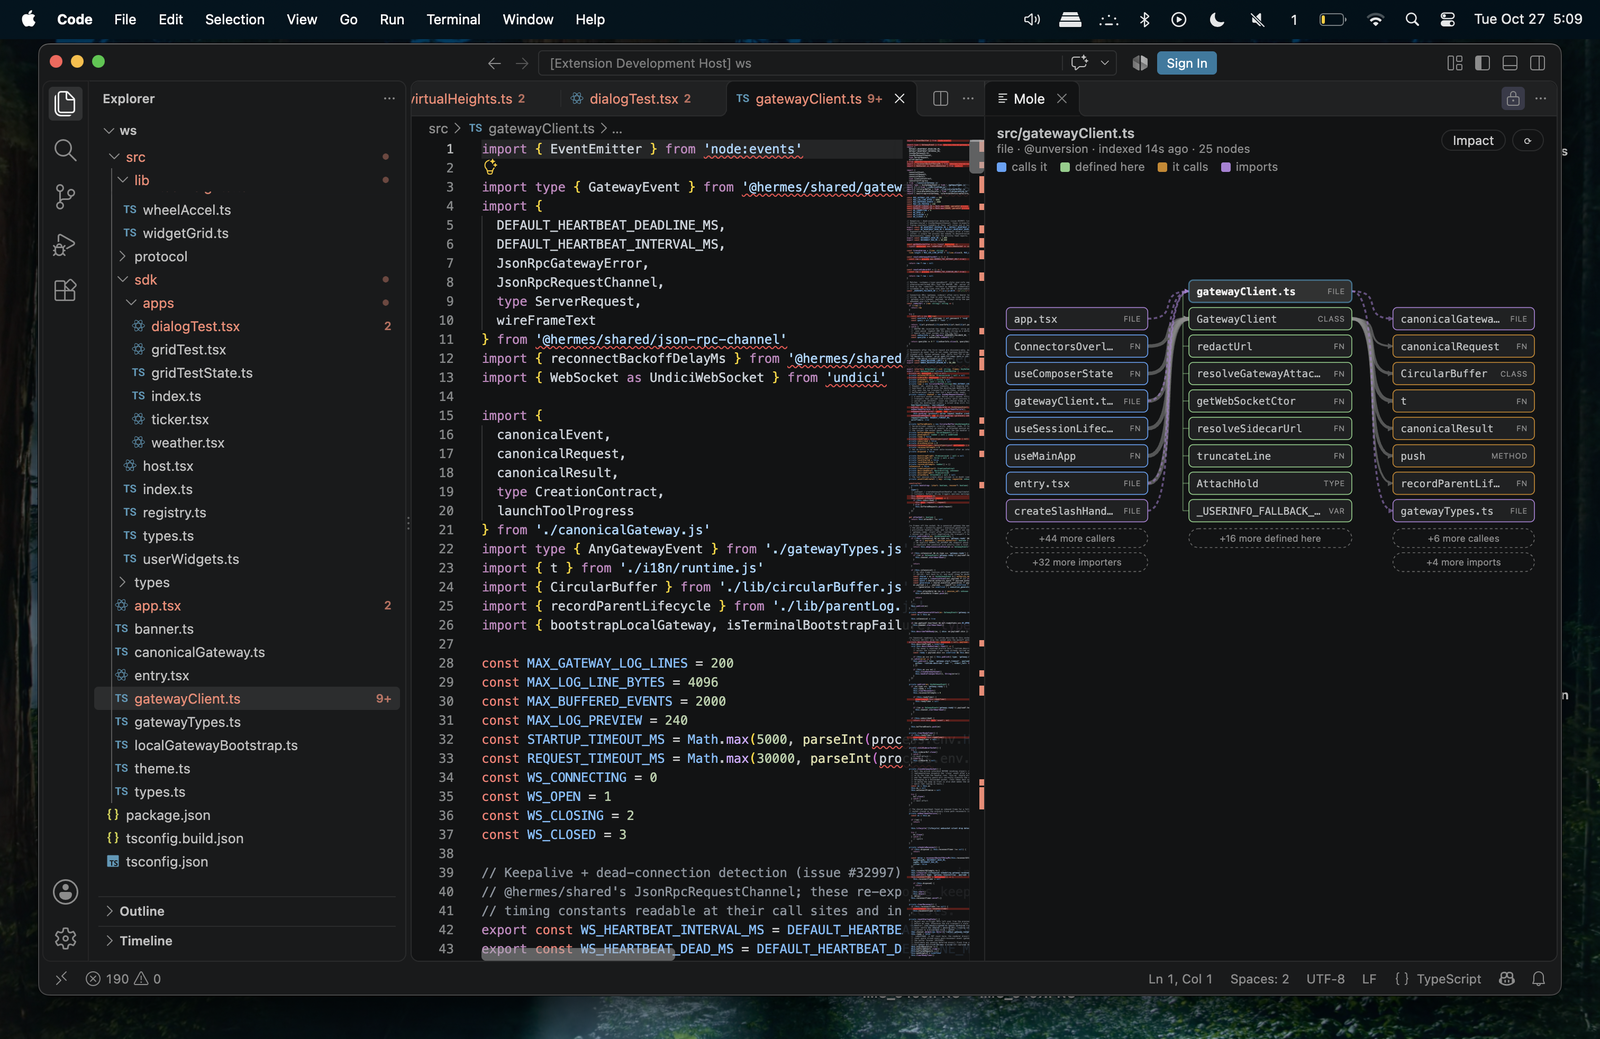
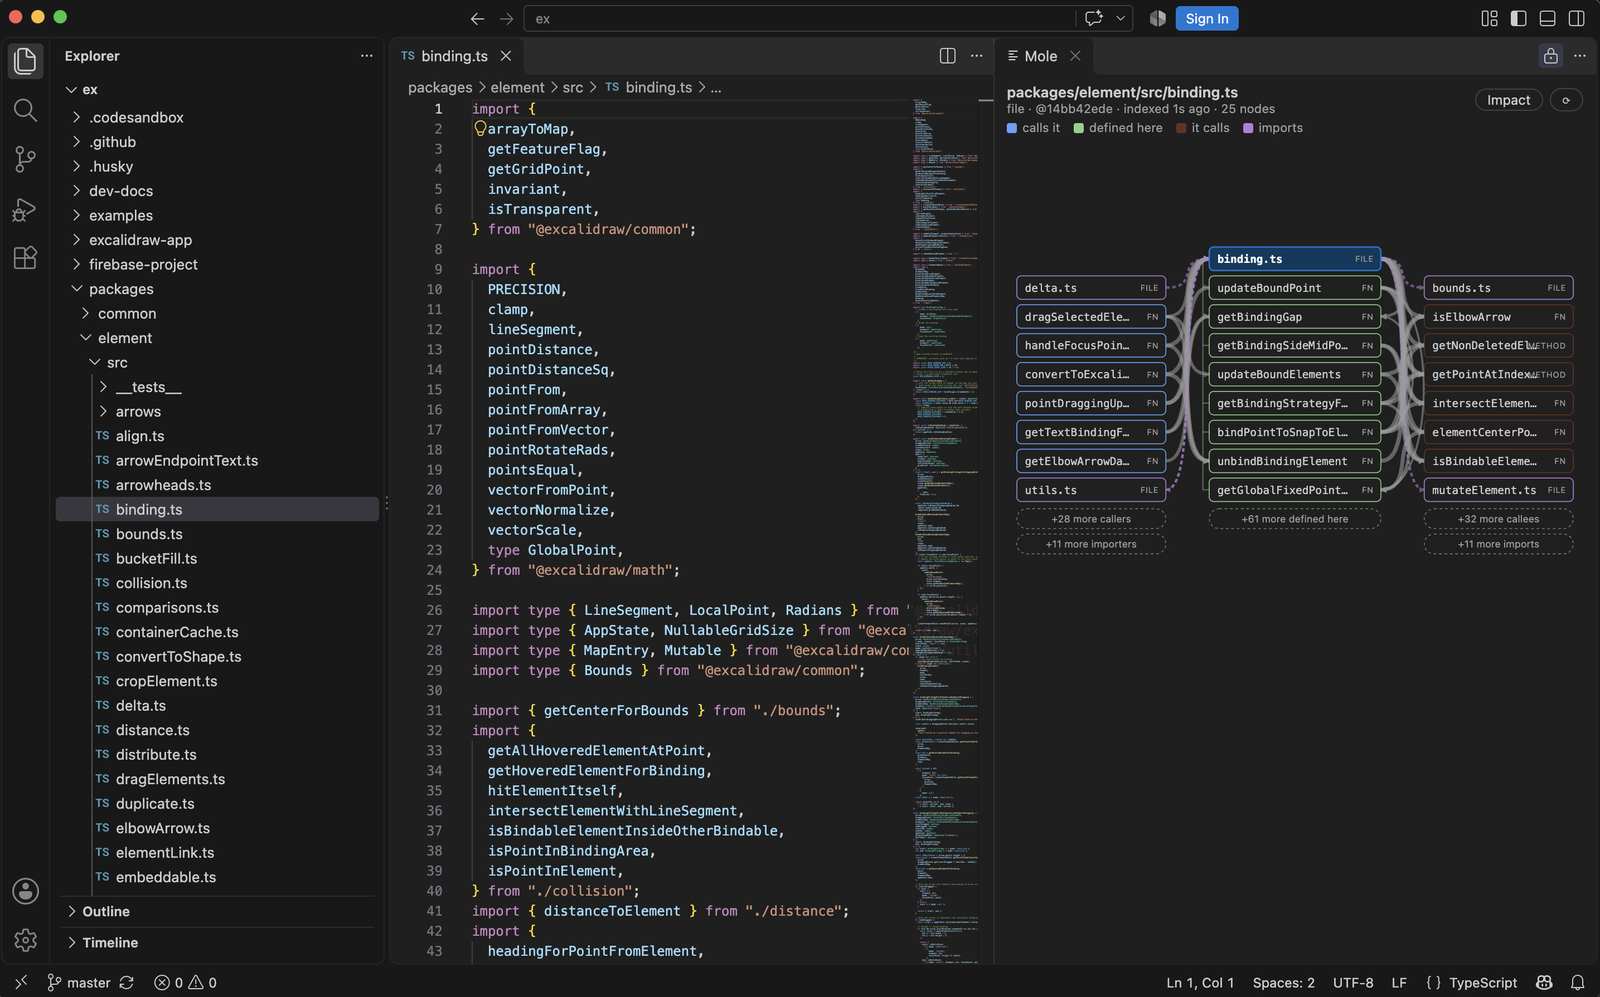
T10: MIT license, manifest repository/publisher, public export script + README, new cropped screenshot on Excalidraw, fixture paths via env

diff --git a/apps/vscode/README.md b/apps/vscode/README.md
@@ -6,6 +6,8 @@ that exact line. The map follows you as you move between files.
 
 ![Mole panel next to the code](media/panel.png)
 
+*Mole on the [Excalidraw](https://github.com/excalidraw/excalidraw) source (MIT), file `binding.ts`.*
+
 Think of it as the "you are here" sign in a shopping mall, but for code. It is meant for people who are new to a
 codebase, and for reviewers who want to see how a change connects to the rest.
 
@@ -24,7 +26,7 @@ The map shows at most 25 boxes; the rest is summarised as "+N more".
 ## Install
 
 Install the `.vsix` file with `code --install-extension mole-code-map-<version>.vsix` (or Extensions view → ⋯ → Install from VSIX).
-Once it is published it will also be on the VS Code Marketplace and Open VSX (Cursor, Windsurf, VSCodium). Needs VS Code 1.101 or newer. The panel opens by itself in workspaces that contain TypeScript; in any other
+It is also on Open VSX (VSCodium, and the forks that use it) and the VS Code Marketplace. Needs VS Code 1.101 or newer. The panel opens by itself in workspaces that contain TypeScript; in any other
 workspace Mole stays silent (run **Mole: Open map beside the code** to start it anyway).
 
 ## Privacy
@@ -55,6 +57,10 @@ minutes (setting `mole.idleMinutes`; `0` = never) and the extension starts it ag
 - Needs the editor's built-in Node 22.13 or newer (VS Code 1.101+). Some VS Code forks on older Electron show a message instead of a map.
 - One background process per repository folder.
 - Tested on macOS only so far; Windows and Linux are not tested yet.
+
+## Source and license
+
+MIT. Source and issues: https://github.com/raychu23/mole-code-map
 
 ## Status
 

diff --git a/scripts/public-README.md b/scripts/public-README.md
@@ -1,0 +1,37 @@
+# Mole: Code Map
+
+A map of the file you are looking at, in a panel beside the code (VS Code and VS Code forks). Open a TypeScript file and see what it
+defines, who calls it, what it calls and who imports it. Click a box to jump to that exact line.
+
+![Mole panel](apps/vscode/media/panel.png)
+
+*Mole on the [Excalidraw](https://github.com/excalidraw/excalidraw) source (MIT).*
+
+- **Install:** search for "Mole: Code Map" in the Extensions view (VS Code Marketplace or Open VSX), or install a `.vsix` from the releases page.
+- **Local only:** no network, no telemetry, no AI call. The index lives in `.git/mole` in your repository.
+- **Honest about limits:** TypeScript/TSX only; lists are capped at 25 boxes; tested on macOS so far. See the extension README.
+
+## Repository layout
+
+| Folder | What it is |
+|---|---|
+| `apps/vscode` | the VS Code extension (panel, packaging, install check) |
+| `packages/indexer` | TypeScript-compiler-API indexer that writes the graph to SQLite |
+| `packages/core` | graph schema and the neighbourhood query/format |
+| `packages/daemon` | per-repository background process, JSON-RPC socket, `mole` command line |
+| `packages/layout` | fixed-column panel layout |
+| `packages/mcp` | `mole_map` tool for AI agents (stdio MCP server) |
+
+## Build
+
+```sh
+npm install
+npm run check                          # build + tests
+npm run package -w @mole/vscode        # apps/vscode/mole-code-map-<version>.vsix
+```
+
+Needs Node 22.13 or newer (`node:sqlite`).
+
+## License
+
+MIT, see `LICENSE`.
